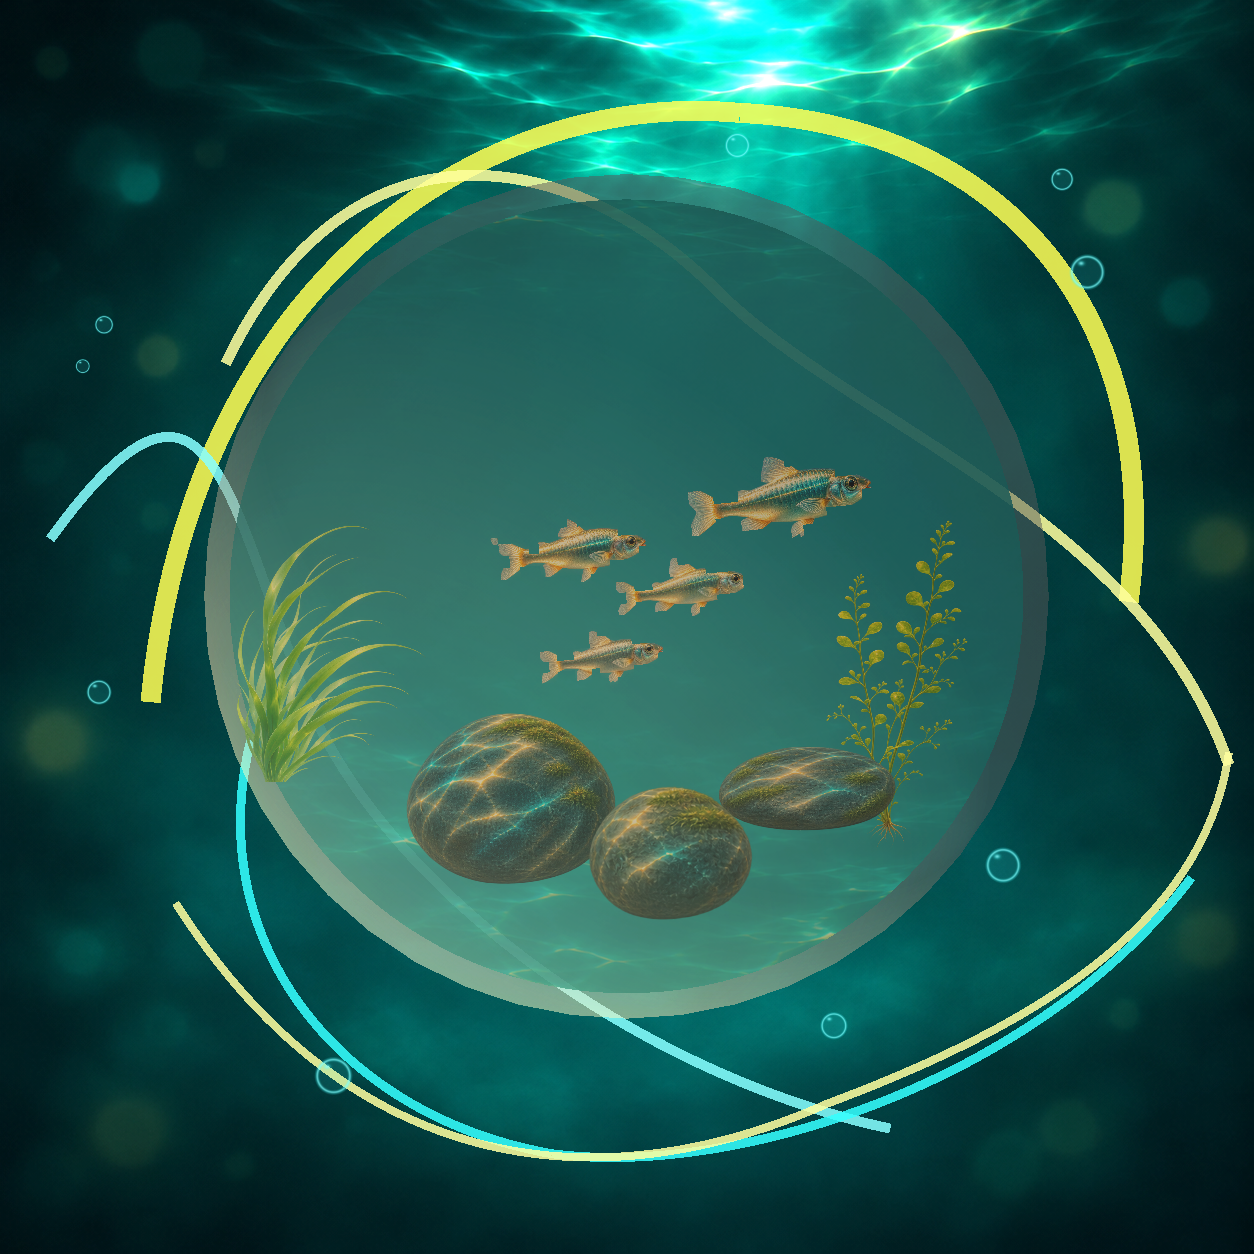
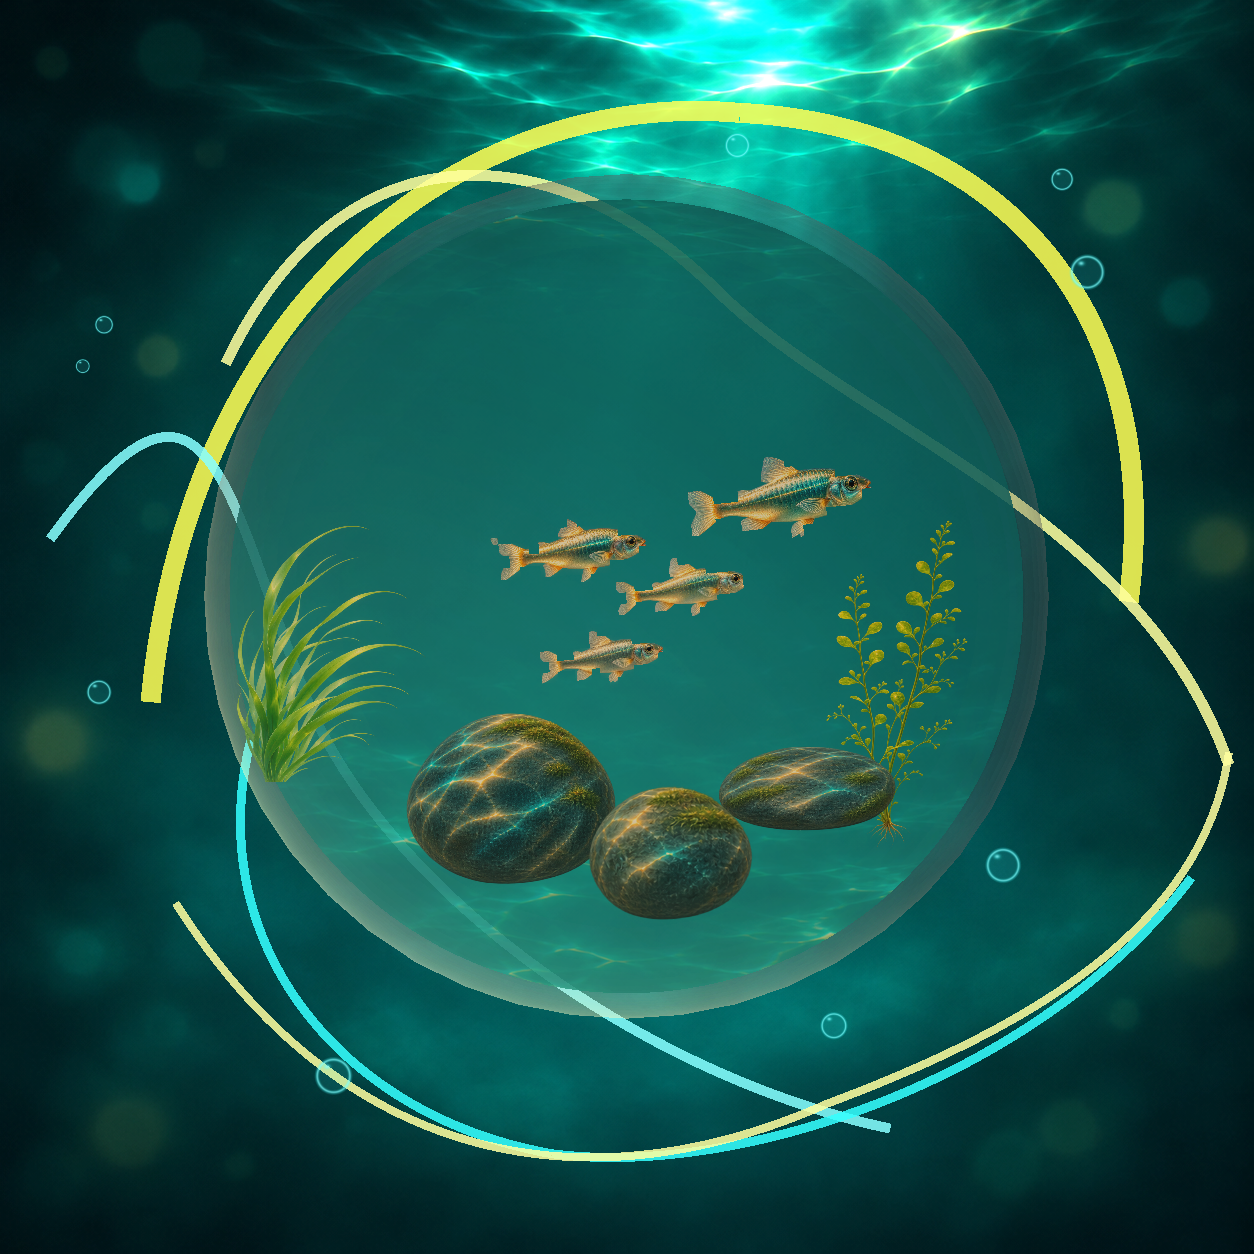
fix(water-world): diagnose glass center overlay with measured comparison

Changed region(s): [[0.1555, 0.311, 0.7153, 0.8086], [0.7153, 0.622, 0.7464, 0.6531]]

diff --git a/app/src/main/java/com/example/waterworld/WaterWorldStaticRenderer.kt b/app/src/main/java/com/example/waterworld/WaterWorldStaticRenderer.kt
@@ -22,6 +22,7 @@ internal class WaterWorldStaticRenderer(private val root: File) {
         val lightDirection: FloatArray,
         val lightColor: FloatArray,
         val depthWrite: Boolean = false,
+        val fresnel: Float = 0f,
     )
     private data class Draw(val binding: Binding, val mesh: WaterWorldMesh, val texture: Int)
     private val loader = WaterWorldAssetLoader(root)
@@ -81,6 +82,7 @@ internal class WaterWorldStaticRenderer(private val root: File) {
             GLES30.glUniform3fv(p.uniform("uLightColor"),1,binding.lightColor,0)
             GLES30.glUniform1f(p.uniform("uAmbient"),binding.ambient)
             GLES30.glUniform1f(p.uniform("uEmission"),binding.emission)
+            GLES30.glUniform1f(p.uniform("uFresnel"),binding.fresnel)
             GLES30.glUniform1f(p.uniform("uUseTexture"),if(binding.texturePath==null) 0f else 1f)
             GLES30.glActiveTexture(GLES30.GL_TEXTURE0)
             GLES30.glBindTexture(GLES30.GL_TEXTURE_2D,texture)

diff --git a/app/src/main/java/com/example/waterworld/WaterWorldProgram.kt b/app/src/main/java/com/example/waterworld/WaterWorldProgram.kt
@@ -63,11 +63,14 @@ internal class WaterWorldProgram {
             uniform float uAmbient;
             uniform float uEmission;
             uniform float uUseTexture;
+            uniform float uFresnel;
             out vec4 color;
             void main() {
                 vec4 base=mix(vec4(1.0),texture(uTexture,vUv),uUseTexture)*uTint;
                 if(base.a<0.001) discard;
                 float diffuse=max(dot(normalize(vNormal),normalize(uLightDirection)),0.0);
+                float edge=pow(1.0-abs(normalize(vNormal).z),3.0);
+                base.a*=mix(1.0,0.025+0.975*edge,uFresnel);
                 color=vec4(base.rgb*(vec3(uAmbient)+uLightColor*diffuse+vec3(uEmission)),base.a);
             }
         """.trimIndent()

diff --git a/app/src/main/java/com/example/waterworld/WaterWorldSceneBindings.kt b/app/src/main/java/com/example/waterworld/WaterWorldSceneBindings.kt
@@ -36,7 +36,7 @@ internal object WaterWorldSceneBindings {
                 textureSha256=if(row.isNull("texture_sha256")) null else row.getString("texture_sha256"),
                 emission=material.getDouble("emission").toFloat(),
                 ambient=row.optDouble("ambient",.35).toFloat(),lightDirection=direction.copyOf(),lightColor=light.copyOf(),
-                depthWrite=row.getBoolean("depth_write"))
+                depthWrite=row.getBoolean("depth_write"),fresnel=material.getDouble("fresnel").toFloat())
         }
         require(result.isNotEmpty() && result.map { it.objectId }.distinct().size==result.size)
         return result

diff --git a/tools/water-world-scene-assembly/render_diagnostic.py b/tools/water-world-scene-assembly/render_diagnostic.py
@@ -43,7 +43,7 @@ def render(fn,program):
    call('glUniformMatrix4fv',None,[I,I,c.c_ubyte,c.POINTER(F)],loc('uModel'),1,0,(F*16)(*d['model']))
    for name,values in [('uTint',tint),('uLightDirection',[-.5,-.7,.5]),('uLightColor',[1,.85,.55])]:
     call('glUniform'+str(len(values))+'fv',None,[I,I,c.POINTER(F)],loc(name),1,(F*len(values))(*values))
-   for name,value in [('uAmbient',d['ambient']),('uEmission',mat['emission']),('uUseTexture',1 if d['texture_path'] else 0)]:call('glUniform1f',None,[I,F],loc(name),value)
+   for name,value in [('uFresnel',mat['fresnel']),('uAmbient',d['ambient']),('uEmission',mat['emission']),('uUseTexture',1 if d['texture_path'] else 0)]:call('glUniform1f',None,[I,F],loc(name),value)
    call('glDepthMask',None,[c.c_ubyte],int(d['depth_write']));call('glDrawElements',None,[U,I,U,P],4,len(indices),0x1405,None)
    assert call('glGetError',U,[])==0,d['draw_id']
  pixels=(c.c_ubyte*(1254*1254*4))();call('glReadPixels',None,[I,I,I,I,U,U,P],0,0,1254,1254,0x1908,0x1401,pixels);assert call('glGetError',U,[])==0
